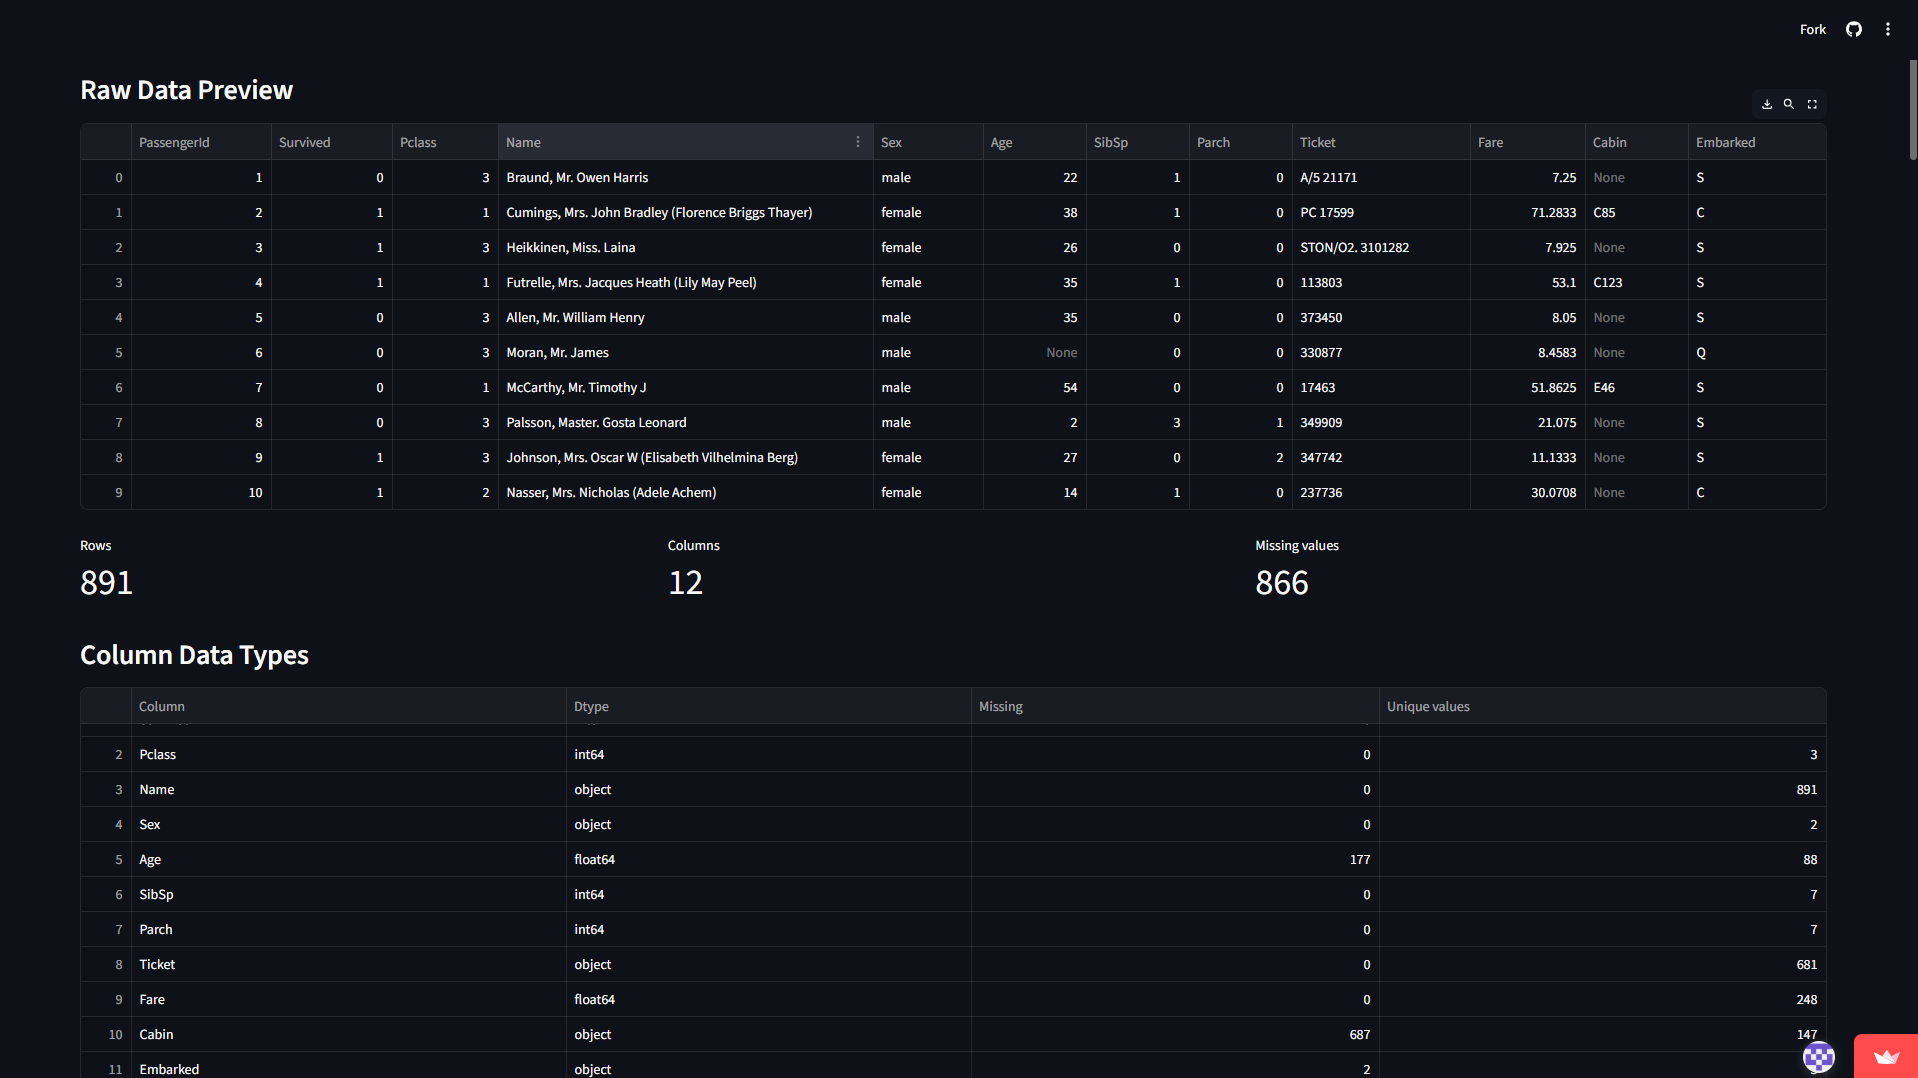
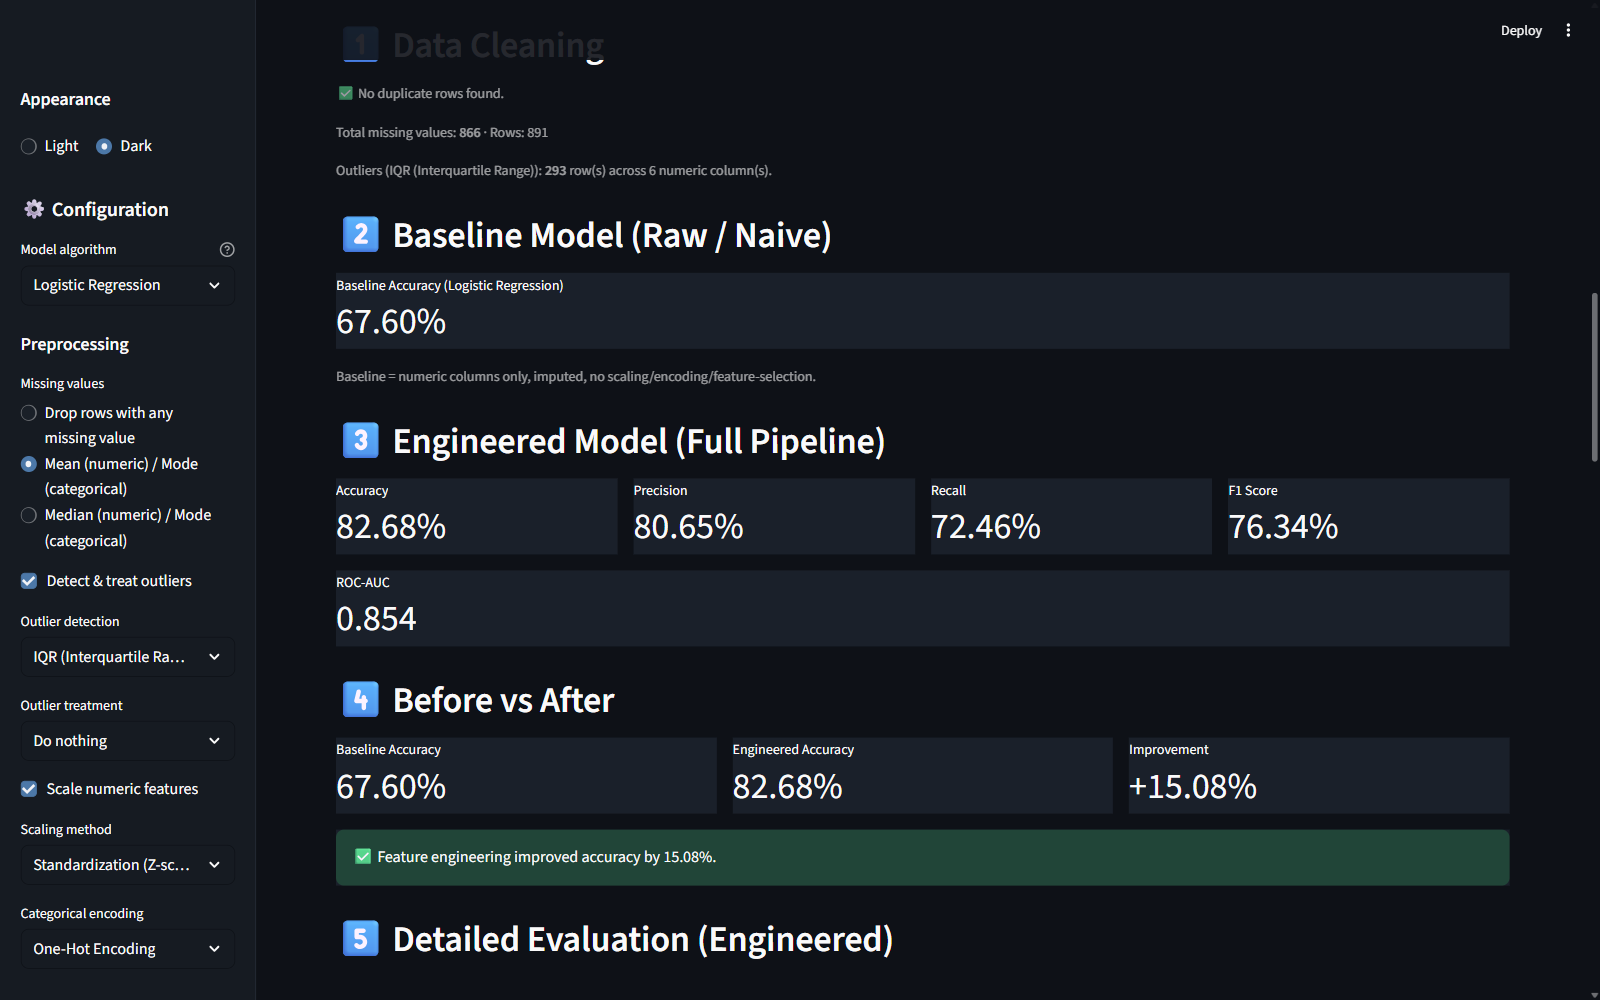
docs: add live app screenshots and optimized demo gif
- Capture real preview and results screenshots from the running app
- Add an optimized animated walkthrough (demo.gif, ~2.4MB) of the full flow
- Update README media section and refine gitignore media rules

diff --git a/README.md b/README.md
@@ -50,6 +50,10 @@ Results view — baseline vs engineered comparison and detailed evaluation:
 
 ![Results and evaluation](assets/results.png)
 
+Quick walkthrough — upload a dataset, select a target, and step through the full analysis:
+
+![Feature Engineering Impact Analyzer demo](assets/demo.gif)
+
 ---
 
 ## 🛠 Tech Stack
